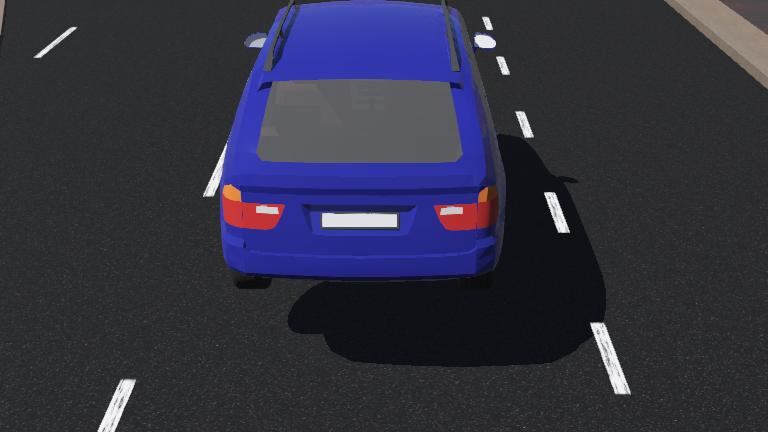
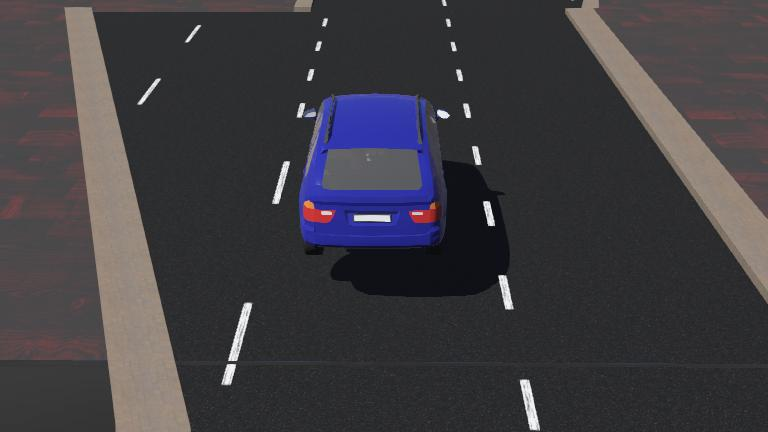
Add GPS/Compass waypoint navigation
Enable GPS and Compass in the Hondaodyssey controller and implement simple waypoint navigation: read GPS/compass values, compute bearing and distance to a TARGET_WAYPOINT, set nav_steering_desire from heading error, and apply autopilot steering/brake behavior when autodrive is active. Also update world files to include GPS and Compass sensors on the vehicle, adjust viewpoint and rendering perspectives, change a traffic light initial state to red, and update the world thumbnail image.

diff --git a/controllers/Hondaodyssey/Hondaodyssey.py b/controllers/Hondaodyssey/Hondaodyssey.py
@@ -17,7 +17,7 @@ ATCS PROJECT for a self driving car
 
 import math
 from vehicle import Driver
-from controller import Keyboard, Lidar, Camera
+from controller import Keyboard, Lidar, Camera, GPS, Compass
 
 
 
@@ -65,8 +65,22 @@ if Top_Camera is not None:
     Top_Camera.enable(TIME_STEP)
 else:
     print("Your top camera is NOT plugged in Twin")
+    
 #Goal: Implementing the a second camera into autopilot by possibly adding a WAYPOINT
+gps = driver.getDevice("gps")
+if gps is not None:
+    gps.enable(TIME_STEP)
+else:
+    print("your GPS is NOT plugged in twin")
 
+compass = driver.getDevice("compass")
+if compass is not None:
+    compass.enable(TIME_STEP)
+else:
+    print("your compass is NOT plugged in twin")
+    
+#now for the gps:
+TARGET_WAYPOINT = [50.0, -100.0]
 
 #to start in manual mode:
 current_speed = 0.0
@@ -125,6 +139,28 @@ frames_missing_l = 0
     #else:
         #return None  
         #no light detected 
+   
+nav_steering_desire = 0.0
+distance_to_target = 999.0
+if gps is not None and compass is not None:
+        current_pos = gps.getValues()
+        current_x = current_pos[0]
+        current_z = current_pos[2]
+        
+        comp_val = compass.getValues()
+        current_heading = math.atan2(comp_val[0], comp_val[2])
+        
+        dx = TARGET_WAYPOINT[0] - current_x
+        dz = TARGET_WAYPOINT[1] - current_z
+        distance_to_target = math.sqrt(dx**2 + dz**2)
+        
+        target_bearing = math.atan2(dx, dz)
+        angle_diff = target_bearing - current_heading
+        
+        while angle_diff > math.pi: angle_diff -= 2 * math.pi
+        while angle_diff < -math.pi: angle_diff += 2 * math.pi
+        
+        nav_steering_desire = angle_diff * 0.5
                 
 def detect_traffic_light(image, width, height):
     zone_size = 2
@@ -458,6 +494,15 @@ while driver.step() != -1:
             
             
     #Safety clamp for the Honda steering limits
+    if autodrive:
+        if abs(nav_steering_desire) > 0.3 or visible_cameras == 0:
+            current_steering = nav_steering_desire
+            print(f"currently on autopilot. Dist: {distance_to_target:.1f}")
+        
+        if distance_to_target < 3.0:
+            current_speed = 0.0
+            driver.setBrakeIntensity(1.0)
+            print("You reached your destination")
     current_steering = max(-0.5, min(0.5, current_steering))
         
     driver.setCruisingSpeed(current_speed)
